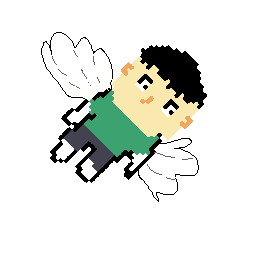
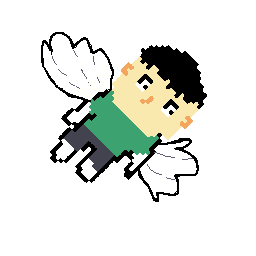
add action image

diff --git a/script.js b/script.js
@@ -11,6 +11,9 @@ const FLY_IMG = [new Image(), new Image()];
 FLY_IMG[0].src = 'images/fly-1.png';
 FLY_IMG[1].src = 'images/fly-2.png';
 
+const DRAG_IMG = new Image();
+DRAG_IMG.src = 'images/drag-1.png';
+
 // ════════════════════════════════════════
 // 游戏参数 — 在这里调数值
 // ════════════════════════════════════════
@@ -313,7 +316,7 @@ function drawPlayer(sy, sx) {
   const rw = player.w * CONFIG.playerScale;
   const rh = player.h * CONFIG.playerScale;
   const flyFrame = Math.floor(frameCount / 8) % 2;
-  const img = player.flying ? FLY_IMG[flyFrame] : PLAYER_IMG;
+  const img = dragging ? DRAG_IMG : (player.flying ? FLY_IMG[flyFrame] : PLAYER_IMG);
   ctx.save();
   ctx.imageSmoothingEnabled = false;
   ctx.translate(cx, cy);
